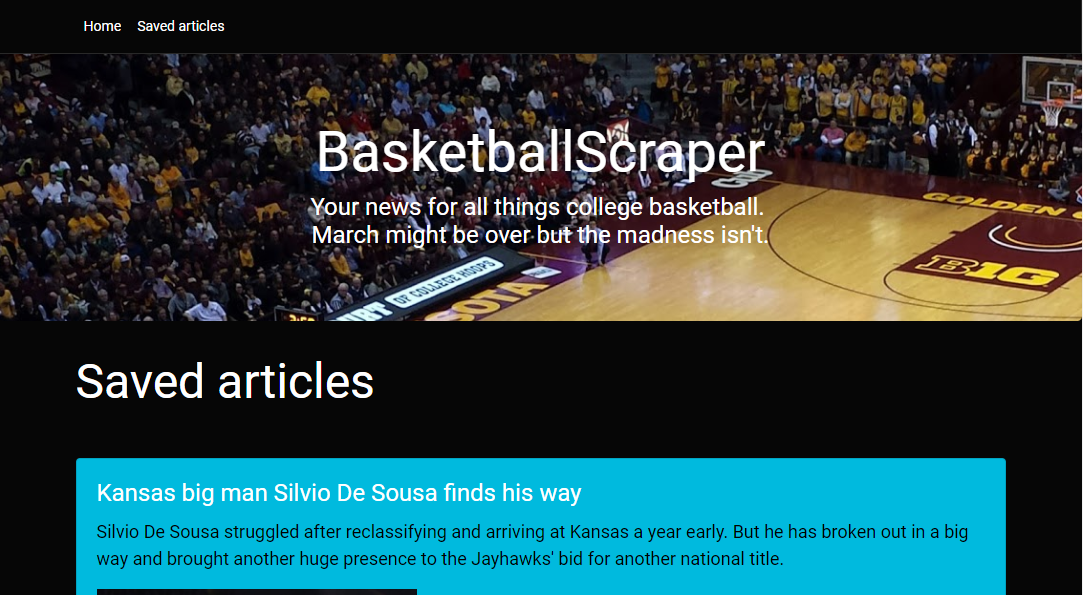
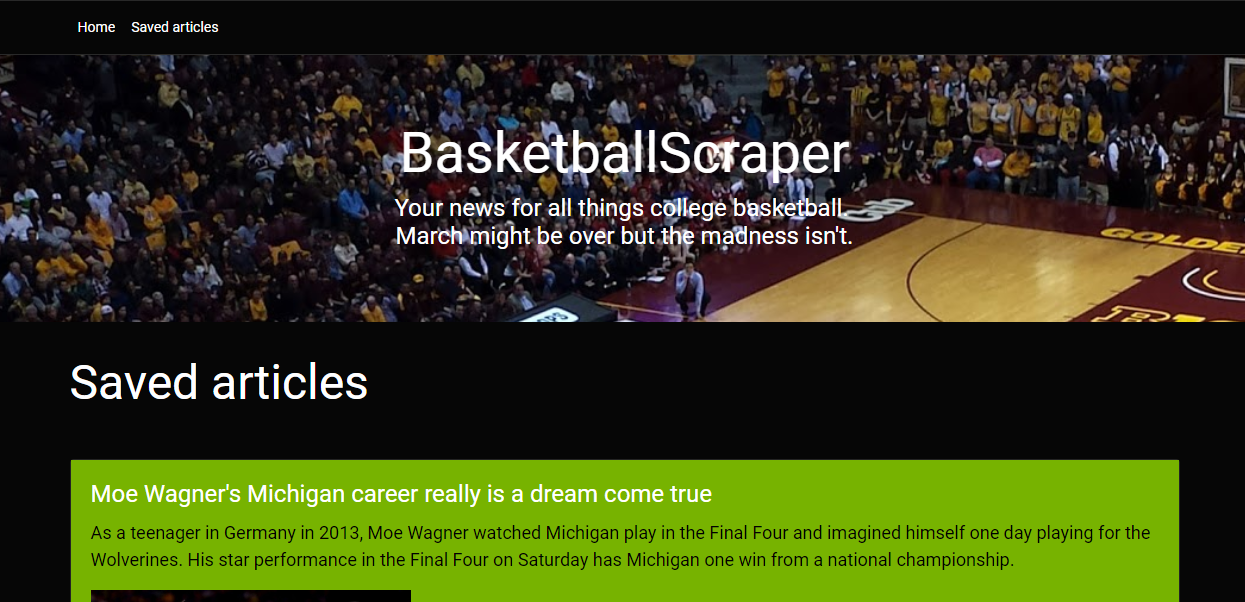
added styling

diff --git a/public/assets/css/style.css b/public/assets/css/style.css
@@ -1,40 +1,47 @@
+/* Color of article summary*/
 .card-text {
     color: black !important;
 }
 
+/* Color of article title*/
 .card-title {
     color: white !important;
 }
 
+/*Width of each article image*/
 .article-img{
     max-width: 320px;
 }
 
+/* font size of article summaries*/
 .article-summary {
     font-size: 18px;
 }
 
+/*Jumbotron background image*/
 .jumbotron {
     background-image: url("/assets/images/background.jpg");
     background-repeat: no repeat;
     background-size: cover;
 }
 
-/* body { */
-    /* background-image: url("https://www.freepik.com/free-photos-vectors/background");
-    <a href="https://www.freepik.com/free-photos-vectors/background">Background vector created by Freepik</a>
-    background-repeat: no repeat; */
-/* } */
-
+/* Modal text size*/
 #number-articles-found, .comment-section-text {
     font-size: 18px;
 }
 
-.card, .social-btn {
+/*Color of article cards that are not "saved articles"*/
+.article-card, .social-btn {
     background-color: #00bade;
 }
 
+/*Add a top and bottom border around each user comment*/
 .user-note-div {
     border-bottom: 3px solid white; margin-top:20px;
     border-top: 3px solid white; 
+}
+
+/*title in Jumbotron*/
+#app-title {
+    font-size: 75px;
 }
